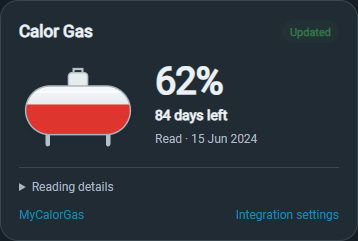
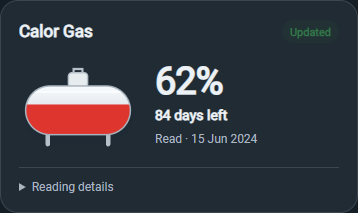
Offer tank cards with or without links in both themes

diff --git a/custom_components/calor_gas/frontend/calor-gas-card.js b/custom_components/calor_gas/frontend/calor-gas-card.js
@@ -48,7 +48,7 @@ export class CalorGasCard extends HTMLElement {
     if (typeof threshold !== "number" || !Number.isFinite(threshold) || threshold < 0 || threshold > 100) {
       throw new Error("Low-level threshold must be between 0 and 100.");
     }
-    this._config = {name: "Calor Gas", show_details: true, compact: false, ...config};
+    this._config = {name: "Calor Gas", show_details: true, show_links: false, compact: false, ...config};
     this._render();
   }
   set hass(value) { this._hass = value; this._states = value?.states; this._render(); }
@@ -128,14 +128,23 @@ export class CalorGasCard extends HTMLElement {
       ]) list.append(element("dt", "", label), element("dd", "", value));
       details.append(list); card.append(details);
     }
-    const links = element("div", "links");
-    const portal = element("a", "", "MyCalorGas"); portal.href = "https://www.mycalorgas.com/TankDelivery";
-    portal.target = "_blank"; portal.rel = "noopener noreferrer";
-    const setup = element("a", "", "Integration settings"); setup.href = "/config/integrations/integration/calor_gas";
-    links.append(portal, setup); card.append(links);
+    if (this._config.show_links) {
+      const links = element("div", "links");
+      const portal = element("a", "", "MyCalorGas"); portal.href = "https://www.mycalorgas.com/TankDelivery";
+      portal.target = "_blank"; portal.rel = "noopener noreferrer";
+      const setup = element("a", "", "Integration settings"); setup.href = "/config/integrations/integration/calor_gas";
+      links.append(portal, setup); card.append(links);
+    }
     const style = element("style"); style.textContent = STYLES;
     this.shadowRoot.replaceChildren(style, card);
   }
+}
+
+class CalorGasCardWithLinks extends CalorGasCard {
+  static getStubConfig(hass) {
+    return {...super.getStubConfig(hass), type: "custom:calor-gas-card-with-links", show_links: true};
+  }
+  setConfig(config) { super.setConfig({show_links: true, ...config}); }
 }
 
 class CalorGasCardEditor extends HTMLElement {
@@ -150,13 +159,14 @@ class CalorGasCardEditor extends HTMLElement {
       {name: "name", selector: {text: {}}},
       {name: "compact", selector: {boolean: {}}},
       {name: "show_details", selector: {boolean: {}}},
+      {name: "show_links", selector: {boolean: {}}},
       {name: "low_threshold", selector: {number: {min: 0, max: 100, step: 1, mode: "box", unit_of_measurement: "%"}}},
     ];
     const labels = {entity: "Tank level sensor", name: "Card title", compact: "Compact layout",
-      show_details: "Show reading details", low_threshold: "Low-level warning below"};
+      show_details: "Show reading details", show_links: "Show quick links", low_threshold: "Low-level warning below"};
     form.computeLabel = schema => labels[schema.name] || schema.name;
     form.addEventListener("value-changed", event => {
-      event.stopPropagation(); this._config = {...event.detail.value, type: "custom:calor-gas-card"};
+      event.stopPropagation(); this._config = {...event.detail.value, type: this._config.type || "custom:calor-gas-card"};
       this.dispatchEvent(new CustomEvent("config-changed", {detail: {config: this._config}, bubbles: true, composed: true}));
     });
     this.shadowRoot.replaceChildren(form);
@@ -164,8 +174,13 @@ class CalorGasCardEditor extends HTMLElement {
 }
 
 if (!customElements.get("calor-gas-card")) customElements.define("calor-gas-card", CalorGasCard);
+if (!customElements.get("calor-gas-card-with-links")) customElements.define("calor-gas-card-with-links", CalorGasCardWithLinks);
 if (!customElements.get("calor-gas-card-editor")) customElements.define("calor-gas-card-editor", CalorGasCardEditor);
 window.customCards = window.customCards || [];
 if (!window.customCards.some(card => card.type === "calor-gas-card")) window.customCards.push({
-  type: "calor-gas-card", name: "Calor Gas tank", description: "Tank level, remaining days and saved readings during portal outages.", preview: true,
+  type: "calor-gas-card", name: "Calor Gas tank", description: "Tank level, remaining days and saved readings without footer links.", preview: true,
+});
+
+if (!window.customCards.some(card => card.type === "calor-gas-card-with-links")) window.customCards.push({
+  type: "calor-gas-card-with-links", name: "Calor Gas tank with links", description: "Tank readings with MyCalorGas and integration settings links.", preview: true,
 });

diff --git a/README.md b/README.md
@@ -98,9 +98,9 @@ A first installation needs one successful reading. If Calor is unavailable befor
 For normal storage-managed dashboard resources, the integration registers its bundled JavaScript module automatically.
 
 1. Open your dashboard and select **Edit dashboard → Add card**.
-2. Select **Calor Gas Tank** (refresh the browser if it does not appear).
+2. Select **Calor Gas tank** for a clean layout, or **Calor Gas tank with links** for MyCalorGas and integration settings shortcuts (refresh the browser if they do not appear). Both follow the active Home Assistant light or dark theme.
 3. Choose the **Tank level** entity belonging to this integration in the visual editor.
-4. Adjust the title, compact layout, details and low-level threshold as desired, then save.
+4. Adjust the title, compact layout, details, **Show quick links** and low-level threshold as desired, then save.
 
 Only one entity is needed; forecast and freshness information are read from that entity's attributes. Entity names can vary between installations, so use your actual entity ID.
 
@@ -119,9 +119,22 @@ low_threshold: 20
 | `name` | `Calor Gas` | Card title |
 | `compact` | `false` | Small layout suitable for a narrow dashboard column |
 | `show_details` | `true` | Expandable reading, sync, run-out and delivery details |
+| `show_links` | `false` (`true` for the with-links preset) | MyCalorGas and integration settings shortcuts; hidden in compact mode |
 | `low_threshold` | `20` | Low indication when level is strictly below this percentage |
 
-Click or press Enter on the tank to open Home Assistant's native more-info dialog. The MyCalorGas link opens the provider website. The settings link opens the integration settings. The card sends no credentials and loads no external scripts.
+For the with-links preset in YAML, use `type: custom:calor-gas-card-with-links`, or set `show_links: true` on the standard card.
+
+Click or press Enter on the tank to open Home Assistant's native more-info dialog. Manage the integration through **Settings → Devices & services → Calor Gas**. The card sends no credentials and loads no external scripts.
+
+### Card layout choices
+
+These previews use synthetic demonstration readings. Both card presets follow your Home Assistant theme.
+
+| Without links | With links |
+| --- | --- |
+| ![Light without links](docs/images/healthy.png) | ![Light with links](docs/images/with-links.png) |
+| ![Dark without links](docs/images/dark.png) | ![Dark with links](docs/images/dark-with-links.png) |
+
 
 ### Manual card resource / YAML dashboards
 
@@ -141,6 +154,10 @@ lovelace:
 ```
 
 YAML resources are not changed automatically. Update the versioned URL when upgrading. No separate frontend download or HACS dashboard repository is needed.
+
+### HACS catalogue icon
+
+The integration includes its own icons and light/dark logos in `custom_components/calor_gas/brand/`. HACS 2.0.5 still loads catalogue icons from the legacy Home Assistant brands server, so its store list can show an unavailable-icon placeholder for new custom integrations. This is tracked by [HACS frontend #937](https://github.com/hacs/frontend/pull/937) and [HACS integration #5171](https://github.com/hacs/integration/issues/5171). It does not indicate a failed installation. Home Assistant uses the bundled assets after installation and restart.
 
 ## Sensors and freshness
 

diff --git a/CHANGELOG.md b/CHANGELOG.md
@@ -8,7 +8,7 @@ First public beta, packaged as a HACS custom integration under GNU GPL v3.0 only
 - Six shared sensors and fixed six-hour polling.
 - Persistent validated snapshots retained during portal outages and restarts.
 - Capped forecasts such as `365+` preserve their lower-bound meaning.
-- Reusable tank card, visual editor, phone/compact layouts and light/dark styling.
+- Two tank-card presets, with or without quick links, a visual editor, phone/compact layouts and automatic light/dark styling.
 - Automatic storage-managed module registration and documented YAML fallback.
 - Original local logos, privacy-filtered diagnostics, regression tests and CI validation.
 
